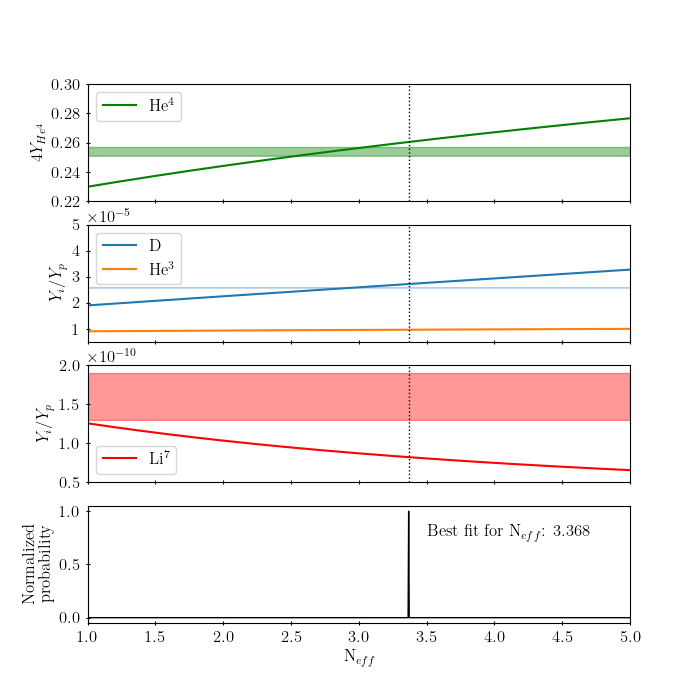
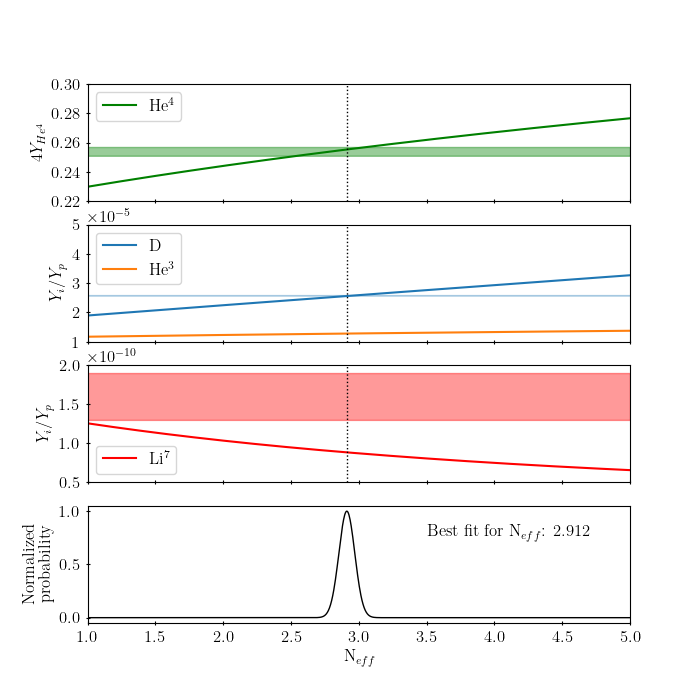
Fixing gaussian

diff --git a/project-2/plot_best_params.py b/project-2/plot_best_params.py
@@ -1,7 +1,6 @@
 import numpy as np 
 import matplotlib.pyplot as plt 
 from scipy.interpolate import interp1d
-from functions import gaussian
 
 plt.rcParams.update({
 	'text.usetex': True,
@@ -16,6 +15,7 @@ plt.rcParams.update({
 Finding the best fit for Omega_b0
 '''
 model = np.load('fitting-O_b0-model-20-runs.npy')
+model[1, :] *= 4
 YHe3 = np.load('fitting-O_b0-YHe3-20-runs.npy')
 
 YDYp, YHe4, YLi7Yp = model
@@ -43,16 +43,16 @@ YHe3 = np.exp(inter_YHe3(np.log(O_b0)))
 model = np.array([YDYp, YHe4, YLi7Yp])
 
 obs_YDYp = 2.57e-5
-obs_YDYp_lower = (2.57 - .03) * 1e-5
-obs_YDYp_upper = (2.57 + .03) * 1e-5
+obs_YDYp_lower = obs_YDYp - .03e-5
+obs_YDYp_upper = obs_YDYp + .03e-5
 
 obs_4YHe4 = 0.254
-obs_4YHe4_lower = 0.254 - .003
-obs_4YHe4_upper = 0.254 + .003
+obs_4YHe4_lower = obs_4YHe4 - .003
+obs_4YHe4_upper = obs_4YHe4 + .003
 
 obs_YLi7Yp = 1.6e-10 
-obs_YLi7Yp_lower = (1.6 - .3) * 1e-10
-obs_YLi7Yp_upper = (1.6 + .3) * 1e-10
+obs_YLi7Yp_lower = obs_YLi7Yp - .3e-10
+obs_YLi7Yp_upper = obs_YLi7Yp + .3e-10
 
 obser = np.array([obs_YDYp, obs_4YHe4, obs_YLi7Yp])
 error = np.array([.03e-5, .003, .3e-10])
@@ -61,12 +61,14 @@ chi_sq = np.sum((model.T - obser)**2 / error**2, axis=-1)
 
 best_O_b0 = O_b0[np.where(chi_sq == np.min(chi_sq))[0][0]]
 
-prob = gaussian(O_b0, best_O_b0, error)
+print(f'Best fit for Omega_b0: {best_O_b0}, with chi2: {np.min(chi_sq):.4f}')
+
+prob = 1 / np.sqrt(2 * np.prod(error**2)) * np.exp(- chi_sq)
 
 gridspec = dict(height_ratios=[.3, 1, .3])
 fig, (ax1, ax2, ax3) = plt.subplots(3, 1, gridspec_kw=gridspec, sharex=True)
 
-ax1.plot(O_b0, 4 * YHe4, color='green', label=r'He$^4$')
+ax1.plot(O_b0, YHe4, color='green', label=r'He$^4$')
 ax1.fill_between(O_b0, obs_4YHe4_lower, obs_4YHe4_upper, color='green', alpha=.4)
 ax1.plot([best_O_b0, best_O_b0], [.2, .33], ls='dotted', lw=1, color='black')
 ax1.set_ylim([.2, .33])
@@ -99,12 +101,15 @@ ax3.set_xlabel(r'$\Omega_{b0}$')
 fig.savefig('figures/best-fit-O_r0.pdf')
 fig.savefig('figures/best-fit-O_r0.png')
 
+plt.show()
+
 '''
 Finding the best fit for Neff. Note that in order to find the best fit for both 
 Omega_b0 and Neff, we first computed the above fit for Omega_b0, and then used 
 that value in the program fitting_Neffpy. 
 '''
 model = np.load('fitting-Neff-model-20-runs.npy')
+model[1, :] *= 4
 YHe3 = np.load('fitting-Neff-YHe3-20-runs.npy')
 
 YDYp, YHe4, YLi7Yp = model
@@ -135,11 +140,13 @@ chi_sq = np.sum((model.T - obser)**2 / error**2, axis=-1)
 
 best_Neff = Neff[np.where(chi_sq == np.min(chi_sq))[0][0]]
 
-prob = gaussian(Neff, best_Neff, error)
+print(f'Best fit for N_eff: {best_Neff}, with chi2: {np.min(chi_sq):.4f}')
+
+prob = 1 / np.sqrt(2 * np.prod(error**2)) * np.exp(- chi_sq)
 
 fig, (ax1, ax2, ax3, ax4) = plt.subplots(4, 1, sharex=True)
 
-ax1.plot(Neff, 4 * YHe4, color='green', label=r'He$^4$')
+ax1.plot(Neff, YHe4, color='green', label=r'He$^4$')
 ax1.fill_between(Neff, obs_4YHe4_lower, obs_4YHe4_upper, color='green', alpha=.4)
 ax1.plot([best_Neff, best_Neff], [.22, .30], ls='dotted', lw=1, color='black')
 ax1.set_ylim([.22, .30])
@@ -150,9 +157,9 @@ ax1.legend()
 ax2.plot(Neff, YDYp, label='D')
 ax2.plot(Neff, YHe3, label=r'He$^3$')
 ax2.fill_between(Neff, obs_YDYp_lower, obs_YDYp_upper, alpha=.4)
-ax2.plot([best_Neff, best_Neff], [.5e-5, 5e-5], ls='dotted', lw=1, color='black')
+ax2.plot([best_Neff, best_Neff], [1e-5, 5e-5], ls='dotted', lw=1, color='black')
 ax2.set_ylabel(r'$Y_i/Y_p$')
-ax2.set_ylim([.5e-5, 5e-5])
+ax2.set_ylim([1e-5, 5e-5])
 ax2.set_yticks(np.linspace(1, 5, 5)*1e-5)
 ax2.legend()
 

diff --git a/project-2/functions.py b/project-2/functions.py
@@ -450,10 +450,6 @@ def element_abundance(lnT, variables, Omega_b0=None, Omega_r0=None):
 
 	return diffs
 
-def gaussian(x, mean, stdev):
-
-	return 1 / np.sqrt(2 * np.prod(stdev**2)) * np.exp(- .5 * ((x - mean) / np.prod(stdev))**2)
-
 # Constants 
 k = const.k_B.cgs.value				# Boltzmann's constant in cgs-units
 hbar = const.hbar.cgs.value			# Planck's constant in cgs-units

diff --git a/project-2/fitting_O_b0.py b/project-2/fitting_O_b0.py
@@ -65,6 +65,7 @@ print(f'\nComputed models for {n_runs} O_b0 values in: {time_outer//60:2.0f} min
 
 YDYp = YD / Yp 
 YLi7Yp = YLi7 / Yp
+YHe3 /= Yp
 
 model = np.array([YDYp, YHe4, YLi7Yp])
 np.save(f'fitting-O_b0-model-{n_runs}-runs', model)

diff --git a/project-2/fitting_Neff.py b/project-2/fitting_Neff.py
@@ -72,6 +72,7 @@ print(f'\nComputed models for {n_runs} Neff values in: {time_outer//60:2.0f} min
 
 YDYp = YD / Yp 
 YLi7Yp = YLi7 / Yp
+YHe3 /= Yp
 
 model = np.array([YDYp, YHe4, YLi7Yp])
 
